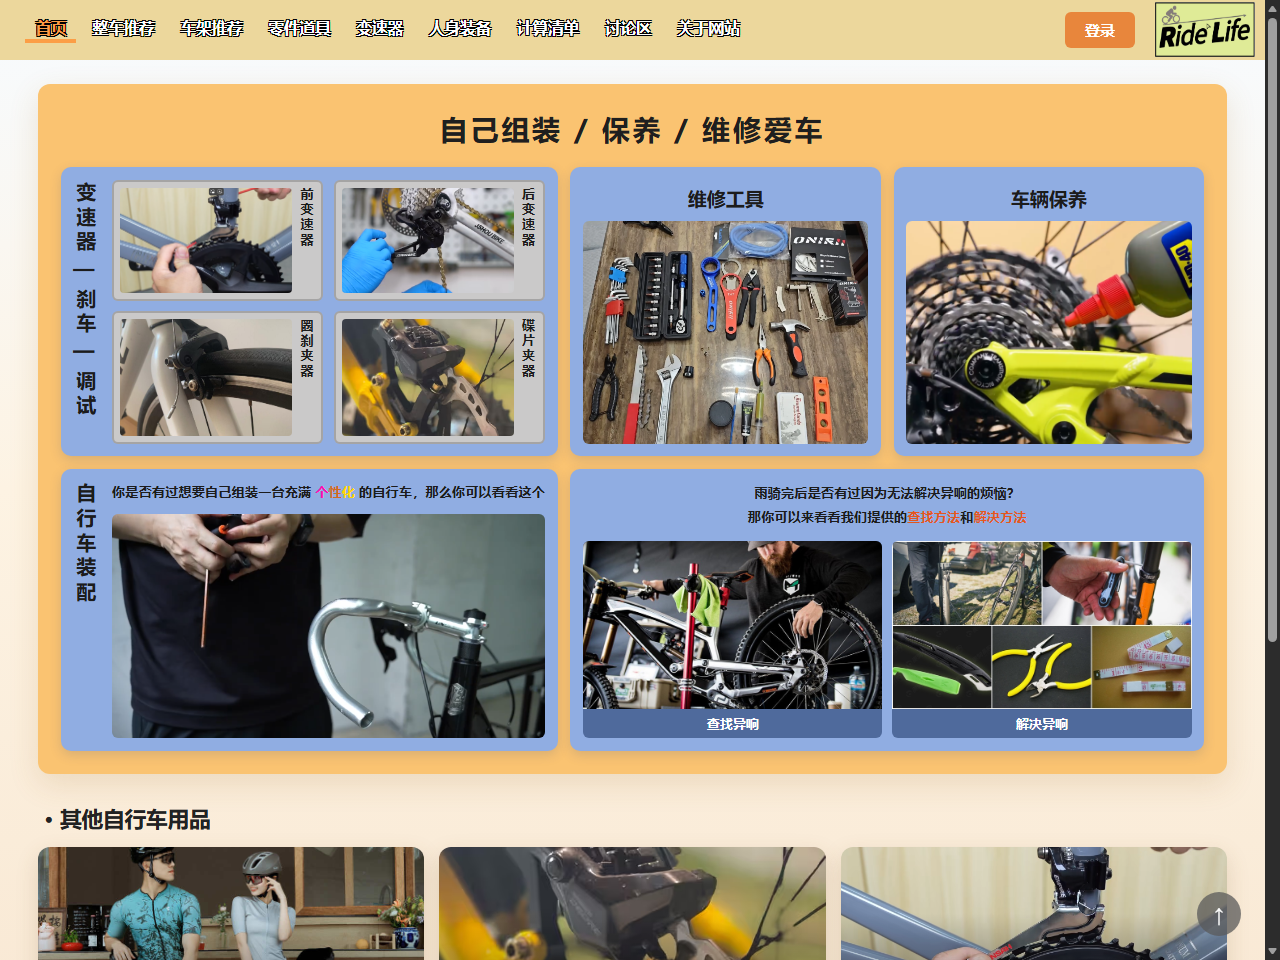
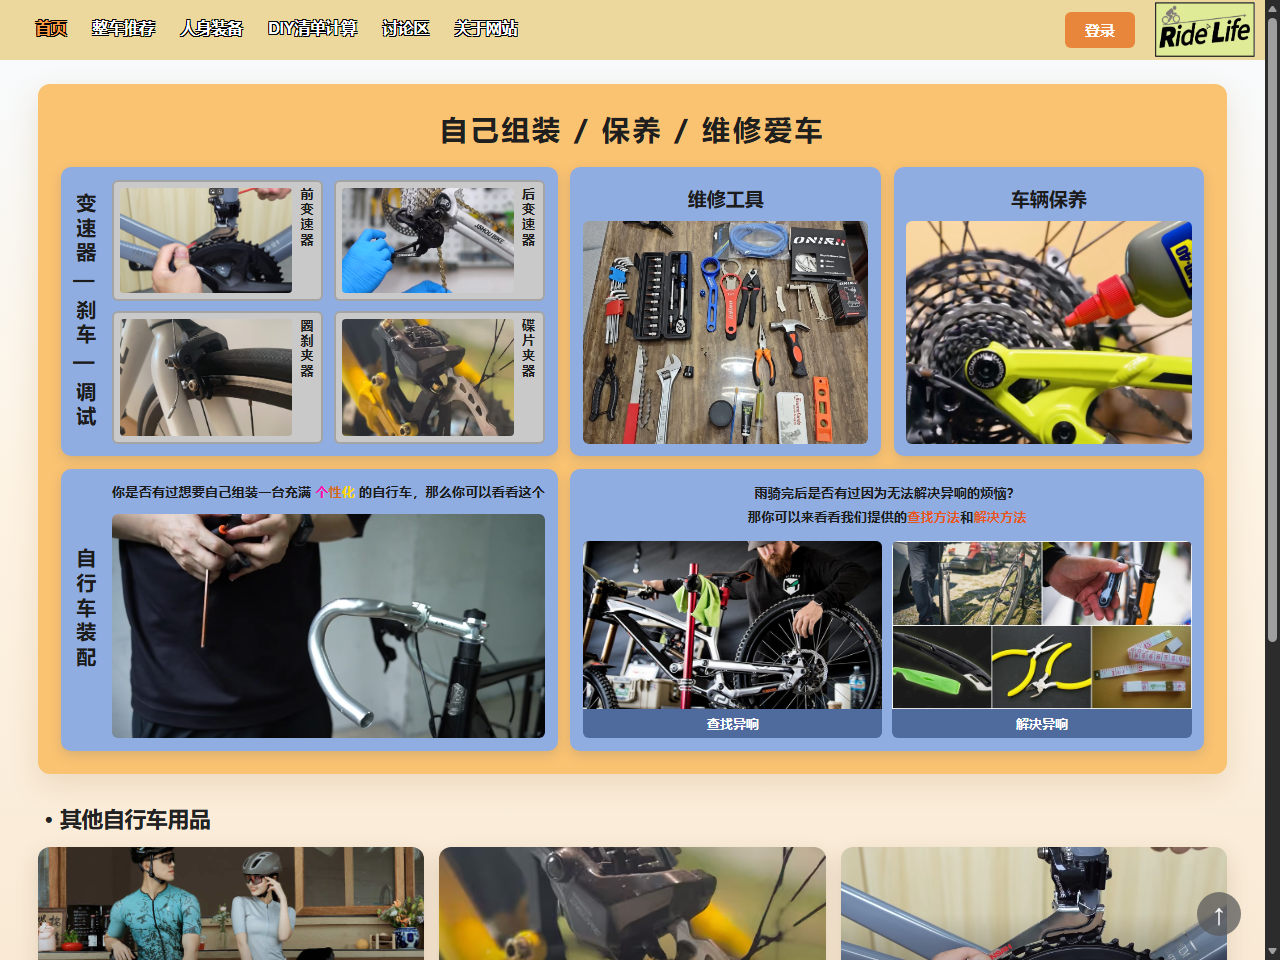
style: 导航精简为 6 项（首页/整车推荐/人身装备/DIY清单计算/讨论区/关于网站），当前页只变色不出下划线

diff --git a/新代码/src/components/NavBar.vue b/新代码/src/components/NavBar.vue
@@ -26,11 +26,8 @@ function onAvatarError(event) {
 const navItems = [
   { label: '首页', to: '/' },
   { label: '整车推荐', to: '/bikes' },
-  { label: '车架推荐', to: '/pending/车架推荐' },
-  { label: '零件道具', to: '/pending/零件道具' },
-  { label: '变速器', to: '/shifters' },
   { label: '人身装备', to: '/pending/人身装备' },
-  { label: '计算清单', to: '/calculator' },
+  { label: 'DIY清单计算', to: '/calculator' },
   { label: '讨论区', to: '/forum' },
   { label: '关于网站', to: '/about' }
 ]
@@ -216,10 +213,10 @@ onBeforeUnmount(() => document.removeEventListener('click', onDocumentClick))
   white-space: nowrap;
 }
 
-/* 当前所在页的菜单项加一条橙色下划线，方便知道自己在哪一页
+/* 当前所在页的菜单项：只把文字变成橙色，不加下划线
    （只对「完全匹配」生效，否则 首页 会在所有页面都亮着） */
 #ul_nav li a.router-link-exact-active {
-  border-bottom: 4px solid rgb(252, 158, 70);
+  border-bottom: 0;
   color: rgb(252, 158, 70);
 }
 

diff --git a/新代码/src/views/TuningView.vue b/新代码/src/views/TuningView.vue
@@ -171,7 +171,7 @@ function scrollTo(id) {
           <p v-if="异响标签[tabIndex].video" class="video-note">
             旧站这里内嵌了一段「变速不准？可能是变速线要断！」的教学视频（55MB），
             新站没有把视频打包进来，可以直接去 UP 主页面看：
-            <a href="https://space.bilibili.com/427727066" target="_blank" rel="noopener">gocyc 的 B 站主页</a>。
+            <a href="https://www.bilibili.com/video/BV1QL4y1u74j/?spm_id_from=333.1387.homepage.video_card.click&vd_source=f2d6aa0358f04a67e1c2ba513038df95" target="_blank" rel="noopener">gocyc 的 B 站主页</a>。
           </p>
         </template>
 

diff --git a/新代码/src/assets/legacy/导航栏.css b/新代码/src/assets/legacy/导航栏.css
@@ -50,9 +50,11 @@ a{
     width: 100px;
     height: 40px;
     position: relative;
-    border-bottom: 0px solid orange;
+    /* 迁移改动：原来的 border-bottom 是给「悬停下划线」用的，现在导航只靠文字变色，
+       这里一并置空，避免在任何状态下压出一条线 */
+    border-bottom: 0;
     padding-top: 15px;
-    transition: border-bottom 0.1s ease;
+    transition: color 0.15s ease;
 }
 
 /* 导航图片logo设置 */

diff --git a/新代码/src/views/HomeView.vue b/新代码/src/views/HomeView.vue
@@ -193,6 +193,7 @@ a.tile:hover img {
   font-size: clamp(18px, 1.6vw, 30px);
   font-weight: 900;
   white-space: nowrap;
+  text-align: center;
 }
 
 /* ① 变速器 */
